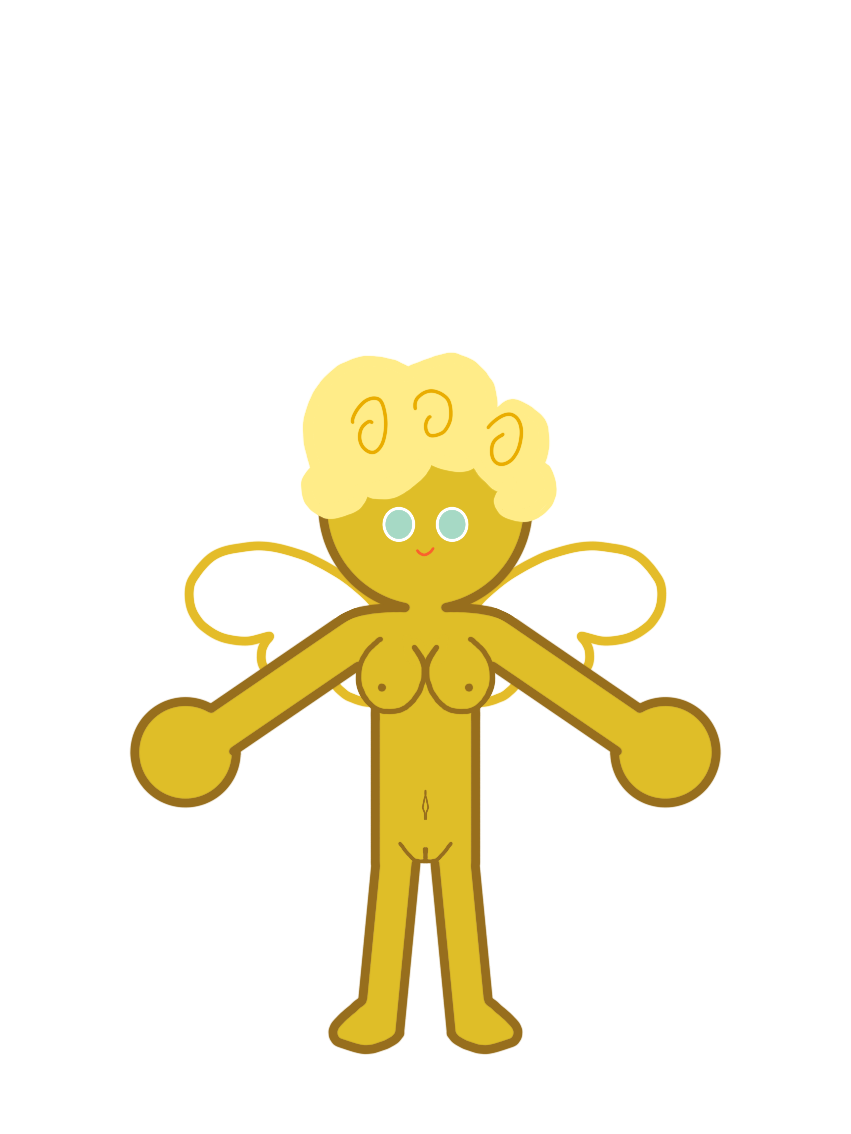
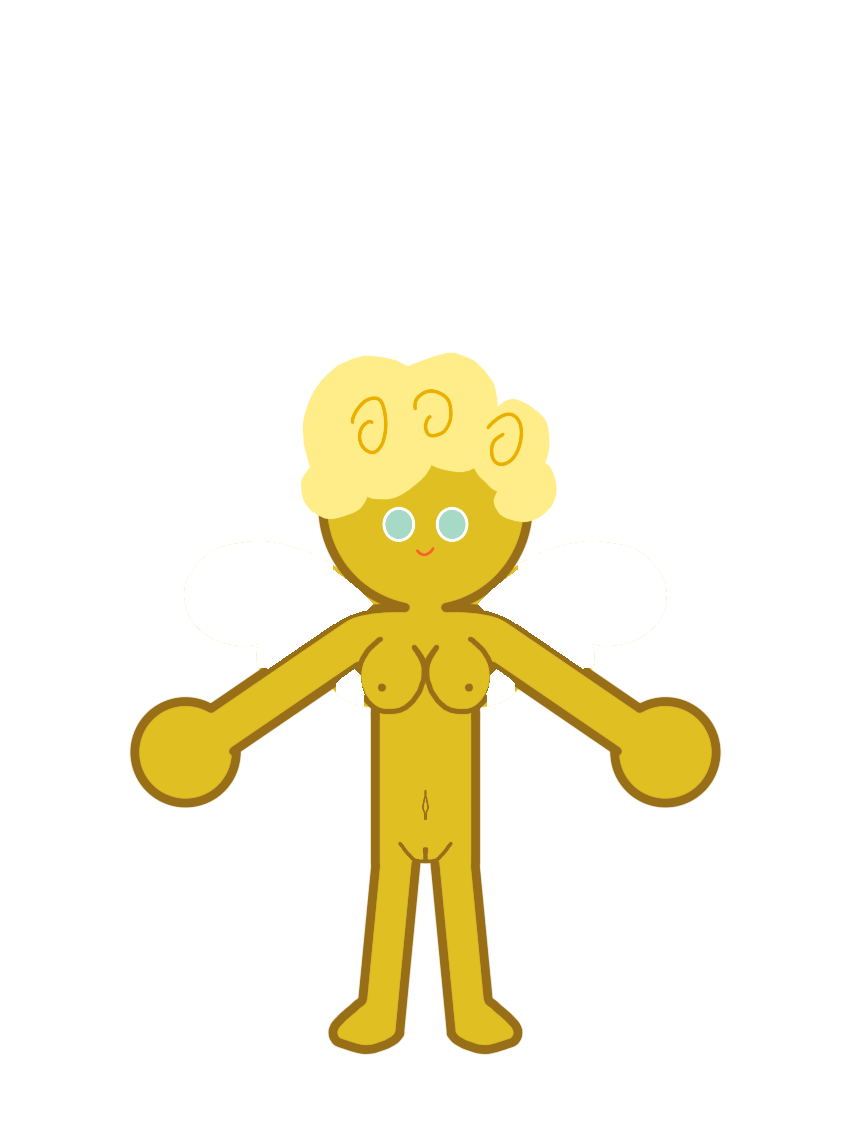
Separate the wings and tail out of the base sprites
Both pets had their back parts painted into the body sprite. The fairy's wings
were carved back out at load time by a 42-line hand-measured pixel mask; the
devil's wings and tail were not separated at all, so they were welded to his
torso and could not move.

They are real files now — wings.png, wings_2.png, tail_2.png — and the mask is
deleted from the config. The devil gains a tail he has never had: it was drawn
on the whole time, stuck to the body. Its anchor is set to where the tail
actually meets him rather than to the pelvis joint, so the chain covers the tail
instead of starting in empty space.

Splitting was done by colour and connected-component labelling, which separated
the left wing, the right wing and the tail cleanly. Two details worth recording:

- A gap is only bridged across blobs when the part really does continue behind
  the body. A cape does; a pair of wings does not, and filling between them
  paints the whole chest black.
- The devil's fringe is deliberately left in the body art. It sits ON the
  forehead, so lifting it out leaves a fringe-shaped hole that shows as soon as
  the part moves, and it hangs off the head bone either way — it already moves
  exactly as it should.

Checked by stacking the body and parts back up against the original sprites:
0 of 174,507 pixels differ for character 2 and 0 of 171,605 for character 1.
The untouched sprites are committed as base_original.png and base_2_original.png.
[…]

diff --git a/tools/parts_preview.html b/tools/parts_preview.html
@@ -1,0 +1,200 @@
+<!DOCTYPE html>
+<html lang="en">
+<head>
+<meta charset="utf-8" />
+<!-- This page lives in tools/ but everything it loads — the rig scripts and
+     images/ — sits one level up, and asset_path_fix.js rewrites bare image
+     names to "images/<name>" relative to the PAGE. Without this the whole page
+     would go looking for tools/images/. -->
+<base href="../" />
+<title>Part preview</title>
+<style>
+  * { box-sizing: border-box; }
+  body { margin: 0; font: 14px/1.5 system-ui, sans-serif; color: #1b2430; background: #eef1f5;
+         display: flex; min-height: 100vh; }
+  #stage { flex: 1; display: flex; align-items: center; justify-content: center; position: relative; }
+  #stage canvas { background:
+      repeating-conic-gradient(#e3e7ee 0% 25%, #f7f9fb 0% 50%) 50% / 24px 24px; border-radius: 8px; }
+  #side { width: 330px; padding: 18px; background: #fff; border-left: 1px solid #d8dee7;
+          overflow: auto; }
+  h1 { font-size: 17px; margin: 0 0 2px; }
+  h2 { font-size: 12px; text-transform: uppercase; letter-spacing: .08em; color: #6b7684;
+       margin: 22px 0 8px; }
+  .sub { color: #6b7684; font-size: 12.5px; margin-bottom: 4px; }
+  button { font: inherit; padding: 7px 12px; margin: 0 6px 6px 0; border: 1px solid #c8d0da;
+           background: #fff; border-radius: 7px; cursor: pointer; }
+  button:hover { background: #f1f4f8; }
+  button.on { background: #1b2430; color: #fff; border-color: #1b2430; }
+  label { display: flex; align-items: center; gap: 8px; padding: 5px 0; cursor: pointer; }
+  code { font: 12.5px ui-monospace, monospace; background: #f1f4f8; padding: 1px 5px;
+         border-radius: 4px; }
+  .missing { color: #a8b0bb; }
+  .tag { font-size: 11px; color: #6b7684; }
+  .warn { background: #fff6e5; border: 1px solid #f0d8a8; padding: 9px 11px; border-radius: 7px;
+          font-size: 12.5px; color: #6b4c12; }
+</style>
+</head>
+<body>
+<div id="stage"><canvas id="c" width="760" height="900"></canvas></div>
+
+<div id="side">
+  <h1>Part preview</h1>
+  <div class="sub">Redraw a part, save it into <code>images/</code>, then Reload art.
+    Nothing here changes your files.</div>
+
+  <h2>Motion</h2>
+  <div id="modes"></div>
+
+  <h2>Parts found</h2>
+  <div id="parts"></div>
+
+  <h2>Show</h2>
+  <label><input type="checkbox" id="bones"> Skeleton and joints</label>
+  <label><input type="checkbox" id="slow"> Quarter speed</label>
+
+  <h2>Scale</h2>
+  <input type="range" id="scale" min="20" max="90" value="52" style="width:100%">
+
+  <h2></h2>
+  <button id="reload">↻ Reload art</button>
+  <div id="note"></div>
+</div>
+
+<script src="asset_path_fix.js"></script>
+<script src="pet_back_layer.js"></script>
+<script src="pet_rig_config.js"></script>
+<script src="pet_rig.js"></script>
+<script>
+(() => {
+  const CFG = window.PET_RIG;
+  const cv = document.getElementById('c'), ctx = cv.getContext('2d');
+
+  // The declared parts, and whether their art actually loaded. Kept as the one
+  // source of truth so switching a part off and rebuilding uses the same list.
+  const declared = []
+    .concat((CFG.backParts || []).map(d => ({ def: d, front: false })))
+    .concat((CFG.frontParts || []).map(d => ({ def: d, front: true })));
+  declared.forEach(p => { p.on = true; });
+
+  const PET = Number(new URLSearchParams(location.search).get('pet') || 0);
+  let rig = null, base = null, mode = 'idle', t0 = performance.now(), showBones = false, slow = false;
+  let scale = 0.52;
+
+  function loadImage(src) {
+    return new Promise(r => { const i = new Image(); i.onload = () => r(i); i.onerror = () => r(null); i.src = src; });
+  }
+
+  // Rebuilding is a whole-sprite read, so it happens on a toggle — never per
+  // frame. Switching a part off means handing the rig a list without it.
+  function build() {
+    CFG.backParts  = declared.filter(p => !p.front && p.on).map(p => p.def);
+    CFG.frontParts = declared.filter(p =>  p.front && p.on).map(p => p.def);
+    if (window.PetRig.resetGeometry) window.PetRig.resetGeometry();
+    rig = window.PetRig.create({ petIndex: PET });
+    if (base) rig.setBase(base);
+    rig.setDebug(showBones);
+  }
+
+  async function boot() {
+    // Character 2 has its own body art and its own "_2" parts; fall back to
+    // character 1's body the same way the app does.
+    base = PET === 1 ? await loadImage('base_2.png') : null;
+    if (!base) base = await loadImage('base.png');
+    document.getElementById('note').innerHTML = base ? '' :
+      '<div class="warn">No <code>images/base.png</code> — nothing to rig. ' +
+      'Add the body sprite first.</div>';
+
+    // Start the part loads through the SAME resolver the rig uses, so the "_2"
+    // names are the ones requested for character 2. Asking for the bare name
+    // here would preload the wrong files and then report every part missing.
+    if (window.PetParts) declared.forEach(p => window.PetParts.resolve(p.def.img, null, PET));
+    await new Promise(r => setTimeout(r, 500));
+
+    renderPartList();
+    build();
+    requestAnimationFrame(frame);
+  }
+
+  function renderPartList() {
+    const host = document.getElementById('parts');
+    host.innerHTML = '';
+    declared.forEach((p, i) => {
+      const found = window.PetParts && window.PetParts.has(p.def.img, null, PET);
+      const row = document.createElement('label');
+      row.innerHTML =
+        `<input type="checkbox" ${p.on ? 'checked' : ''} ${found ? '' : 'disabled'}>` +
+        `<span class="${found ? '' : 'missing'}"><code>${p.def.img}</code>` +
+        `<div class="tag">${found ? '' : 'not found · '}${p.front ? 'front' : 'behind'} · ` +
+        `${p.def.bone}${p.def.segments ? ' · chain x' + p.def.segments : ''}</div></span>`;
+      row.querySelector('input').addEventListener('change', e => { p.on = e.target.checked; build(); });
+      host.appendChild(row);
+    });
+  }
+
+  const MODES = [
+    ['idle',  'Rest'],
+    ['sway',  'Walk about'],
+    ['throw', 'Throw'],
+    ['pull',  'Pull a hand'],
+  ];
+  const modeHost = document.getElementById('modes');
+  MODES.forEach(([id, label]) => {
+    const b = document.createElement('button');
+    b.textContent = label; b.dataset.mode = id;
+    b.className = id === mode ? 'on' : '';
+    b.onclick = () => {
+      mode = id; t0 = performance.now();
+      [...modeHost.children].forEach(c => c.className = c.dataset.mode === id ? 'on' : '');
+    };
+    modeHost.appendChild(b);
+  });
+
+  document.getElementById('bones').onchange = e => { showBones = e.target.checked; if (rig) rig.setDebug(showBones); };
+  document.getElementById('slow').onchange  = e => { slow = e.target.checked; };
+  document.getElementById('scale').oninput  = e => { scale = e.target.value / 100; };
+  document.getElementById('reload').onclick = () => location.reload();
+
+  let last = 0;
+  function frame(now) {
+    requestAnimationFrame(frame);
+    let dt = last ? Math.min((now - last) / 1000, 0.05) : 1 / 60;
+    last = now;
+    if (slow) dt *= 0.25;
+    ctx.clearRect(0, 0, cv.width, cv.height);
+    if (!rig || !rig.ready) return;
+
+    const t = (now - t0) / 1000 * (slow ? 0.25 : 1);
+    const h = CFG.src.h * scale;
+    const cx = cv.width / 2 - CFG.src.w * scale / 2;
+    const floor = 40 + h;
+
+    const S = {
+      petX: cx, petY: 40, originX: 0, originY: 0, scale,
+      floorY: floor, poseK: rig.pose.idle, pin: null, airborne: false,
+    };
+
+    if (mode === 'sway') {
+      S.petX = cx + Math.sin(t * 1.6) * 130;
+    } else if (mode === 'throw') {
+      const p = (t % 2.4) / 2.4;
+      S.petX = cx + Math.sin(t * 2.2) * 150;
+      S.petY = 40 - Math.sin(p * Math.PI) * h * 0.55;
+      S.airborne = p < 0.92;
+      S.poseK = S.airborne ? rig.pose.airborne : rig.pose.idle;
+      if (!S.airborne) S.floorY = floor;
+    } else if (mode === 'pull') {
+      S.poseK = rig.pose.heldLimb;
+      S.pin = { joint: 'handL',
+                x: cx + (CFG.src.w * 0.5 + Math.cos(t * 1.1) * CFG.src.w * 0.42) * scale,
+                y: 40 + (CFG.src.h * 0.55 + Math.sin(t * 1.1) * CFG.src.h * 0.3) * scale };
+    }
+
+    rig.step(dt, S);
+    rig.draw(ctx, S);
+  }
+
+  boot();
+})();
+</script>
+</body>
+</html>

diff --git a/pet_rig_config.js b/pet_rig_config.js
@@ -216,15 +216,19 @@ window.PET_RIG = {
   //                 much cheaper. 'maxLag' caps the trail in degrees.
   //                 'flap: true' adds a slow flutter while the pet is airborne.
   //
-  // 'mask' is the legacy path, kept for the wings that are drawn INTO the base
-  // art that ships with this app: row runs [y, x0, x1] measured off base.png.
-  // Body bones subtract those pixels and the part keeps only them, which is
-  // what stops an arm flying off with a lump of wing stuck to it. Supplying
-  // 'img' is better in every way — the wing comes out whole where an arm
-  // currently overlaps it — and an img next to a mask wins.
+  // These parts used to be painted into base.png and carved back out with a
+  // hand-measured pixel mask. They are real files now: images/wings.png and, for
+  // character 2, images/wings_2.png and images/tail_2.png. base_original.png
+  // next to them is the untouched sprite they came out of, kept for reference.
+  //
+  // The mask path still exists in pet_rig.js and still works — add a 'mask' of
+  // row runs [y, x0, x1] instead of an 'img' and the part is carved out of the
+  // base art as before. Nothing here uses it any more, and an 'img' wins over a
+  // mask if both are given. Prefer the file: a carved part can never recover
+  // what the body was covering, and a drawn one comes out whole.
   backParts: [
 
-    { id: 'tail', img: 'tail.png', bone: 'pelvis', anchor: { x: 425, y: 862 },
+    { id: 'tail', img: 'tail.png', bone: 'pelvis', anchor: { x: 370, y: 867 },
       z: 45, segments: 3, stiffness: 0.30 },
 
     { id: 'ponytail', img: 'ponytail.png', bone: 'head', anchor: { x: 425, y: 430 },
@@ -234,52 +238,8 @@ window.PET_RIG = {
       z: 55, lag: 0.14, maxLag: 10 },
 
     { id: 'wings', img: 'wings.png', bone: 'torso', anchor: { x: 425, y: 648 },
-      z: 40, lag: 0.22, maxLag: 16, flap: true,
-      rect: [184, 541, 483, 166],
-      mask: [
-        541,247,270, 541,580,603, 542,240,276, 542,574,610, 543,233,281, 543,569,617, 544,228,285, 544,565,622,
-        545,224,288, 545,562,626, 546,221,292, 546,558,629, 547,218,295, 547,555,632, 548,216,298, 548,552,634,
-        549,214,301, 549,549,636, 550,212,304, 550,546,638, 551,210,307, 551,543,639, 552,209,309, 552,541,641,
-        553,208,312, 553,538,642, 554,206,314, 554,536,644, 555,205,316, 555,534,645, 556,204,318, 556,532,646,
-        557,203,320, 557,530,647, 558,202,322, 558,528,648, 559,201,324, 559,526,649, 560,200,326, 560,524,650,
-        561,199,327, 561,523,651, 562,198,329, 562,521,652, 563,197,331, 563,519,653, 564,197,332, 564,518,653,
-        565,196,332, 565,518,654, 566,195,332, 566,518,655, 567,194,332, 567,518,656, 568,193,332, 568,518,657,
-        569,193,332, 569,518,657, 570,192,334, 570,516,658, 571,191,335, 571,515,659, 572,191,336, 572,514,659,
-        573,190,337, 573,513,660, 574,189,339, 574,511,661, 575,189,340, 575,510,661, 576,188,342, 576,508,662,
-        577,187,343, 577,507,662, 578,187,344, 578,506,663, 579,187,346, 579,504,663, 580,186,347, 580,503,664,
-        581,186,348, 581,502,664, 582,185,349, 582,501,665, 583,185,351, 583,499,665, 584,185,352, 584,498,665,
-        585,185,353, 585,497,665, 586,184,354, 586,496,665, 587,184,355, 587,495,666, 588,184,357, 588,493,666,
-        589,184,358, 589,492,666, 590,184,359, 590,491,666, 591,184,360, 591,490,666, 592,184,361, 592,489,666,
-        593,184,362, 593,488,666, 594,184,363, 594,487,666, 595,184,364, 595,486,666, 596,184,365, 596,485,666,
-        597,184,366, 597,484,666, 598,184,367, 598,483,666, 599,184,368, 599,482,666, 600,184,369, 600,481,666,
-        601,184,370, 601,480,666, 602,185,371, 602,479,665, 603,185,372, 603,478,665, 604,185,372, 604,478,665,
-        605,185,371, 605,479,665, 606,185,370, 606,480,665, 607,186,369, 607,481,664, 608,186,368, 608,482,664,
-        609,186,367, 609,483,664, 610,186,366, 610,484,664, 611,187,361, 611,489,663, 612,187,358, 612,492,663,
-        613,188,355, 613,495,662, 614,188,352, 614,498,662, 615,189,349, 615,500,661, 616,189,347, 616,503,661,
-        617,190,345, 617,505,660, 618,190,343, 618,507,660, 619,191,341, 619,509,659, 620,191,339, 620,511,658,
-        621,192,338, 621,512,658, 622,193,336, 622,514,657, 623,194,335, 623,515,656, 624,194,332, 624,518,656,
-        625,195,331, 625,519,655, 626,196,329, 626,521,654, 627,197,328, 627,522,653, 628,198,326, 628,524,652,
-        629,199,325, 629,525,651, 630,200,323, 630,527,650, 631,201,322, 631,528,649, 632,203,320, 632,529,647,
-        633,204,319, 633,531,646, 634,205,318, 634,532,645, 635,207,316, 635,534,643, 636,208,315, 636,535,642,
-        637,210,313, 637,537,640, 638,211,312, 638,538,638, 639,213,310, 639,540,637, 640,215,309, 640,541,635,
-        641,218,307, 641,543,632, 642,220,306, 642,544,629, 643,224,304, 643,546,626, 644,228,303, 644,547,622,
-        645,234,253, 645,258,301, 645,549,592, 645,597,617, 646,257,300, 646,550,593, 647,257,298, 647,551,593,
-        648,257,297, 648,553,593, 649,257,296, 649,554,593, 650,256,294, 650,556,593, 651,256,293, 651,557,594,
-        652,256,291, 652,559,594, 653,256,290, 653,560,594, 654,256,288, 654,562,594, 655,256,287, 655,563,594,
-        656,256,285, 656,565,594, 657,256,284, 657,566,594, 658,256,282, 658,568,594, 659,256,281, 659,569,594,
-        660,256,280, 660,570,594, 661,256,278, 661,572,594, 662,256,277, 662,573,593, 663,257,275, 663,575,593,
-        664,257,274, 664,576,593, 665,257,272, 665,578,593, 666,258,271, 666,579,592, 667,258,269, 667,581,592,
-        668,267,268, 668,582,583, 669,354,354, 669,496,496, 670,352,355, 670,495,498, 671,351,356, 671,494,499,
-        672,349,357, 672,493,501, 673,348,358, 673,492,502, 674,347,359, 674,491,503, 675,345,360, 675,490,505,
-        676,344,360, 676,490,506, 677,342,360, 677,490,508, 678,341,360, 678,490,509, 679,340,360, 679,490,510,
-        680,339,360, 680,490,511, 681,338,360, 681,490,512, 682,337,360, 682,490,513, 683,336,361, 683,489,514,
-        684,336,361, 684,489,514, 685,336,361, 685,489,514, 686,336,361, 686,489,514, 687,336,361, 687,489,514,
-        688,336,362, 688,488,514, 689,336,362, 689,488,514, 690,336,362, 690,488,514, 691,336,363, 691,487,514,
-        692,336,363, 692,487,514, 693,336,363, 693,486,514, 694,337,364, 694,486,513, 695,338,363, 695,487,512,
-        696,339,363, 696,487,511, 697,340,363, 697,487,509, 698,342,363, 698,487,508, 699,343,363, 699,487,507,
-        700,345,363, 700,487,505, 701,347,363, 701,487,503, 702,349,363, 702,487,501, 703,352,363, 703,487,498,
-        704,354,363, 704,487,496, 705,357,363, 705,487,493, 706,361,363, 706,487,489,
-      ] },
+      z: 40, lag: 0.22, maxLag: 16, flap: true },
+
   ],
 
   // ---- Front parts ---------------------------------------------------------

diff --git a/pet_rig.js b/pet_rig.js
@@ -1198,7 +1198,15 @@ window.PetRig = (function () {
   //  window.PetRig is itself the first pet, so an app with one pet never has to
   //  know create() exists — every call it already makes still lands.
   const first = create({ petIndex: 0 });
-  const api = { create, geometry, config: CFG };
+  const api = {
+    create, geometry, config: CFG,
+    // Throw away the derived skeleton so the next create() reads PET_RIG again.
+    // The geometry is cached because it is identical for every pet and costs a
+    // pass over the config to build; that caching is also why editing
+    // PET_RIG.backParts at runtime otherwise appears to do nothing. The parts
+    // preview in tools/ uses this to switch a part off and re-cut.
+    resetGeometry() { for (const k in geomCache) delete geomCache[k]; },
+  };
   for (const k of Object.keys(first)) {
     const d = Object.getOwnPropertyDescriptor(first, k);
     if (d && (d.get || d.set)) Object.defineProperty(api, k, d);

diff --git a/tools/README.md b/tools/README.md
@@ -1,0 +1,69 @@
+# Drawing the pet's back parts
+
+The pet's body is cut into limbs automatically along the skeleton in
+`pet_rig_config.js`, so **you never separate an arm, a leg, the head or the
+torso** — those live in `images/base.png` and the rig handles them.
+
+What does need its own file is anything that sits **behind** the body and spans
+more than one bone: a cape, long hair, wings, a tail. The rig gives every pixel
+to the bone nearest it, so a cape draped across both legs gets shared out
+between them and tears apart the moment the pet is thrown.
+
+> **The test:** if the pet moved its arm, would this move *with* the arm?
+> A sleeve would — it belongs in `base.png`. A cape would not — it needs its own file.
+
+## The files
+
+Every part is optional. A missing PNG simply draws nothing, so you can add them
+one at a time. Draw each on its own transparent canvas the **same size as
+`base.png`** (851 × 1134), positioned exactly where it sits on the body — the
+same way a piece of clothing lines up.
+
+| file | hangs off | how it moves |
+|---|---|---|
+| `images/wings.png` | torso | one piece, trails the body, flaps in the air |
+| `images/cape.png` | torso | one piece, trails the body |
+| `images/tail.png` | pelvis | chain — whips and settles |
+| `images/ponytail.png` | head | chain — whips and settles |
+| `images/hair_back.png` | head | one piece, trails the head |
+| `images/hair_front.png` | head | drawn **over** the body and its clothes |
+
+`parts_guide_*.png` in this folder is a tracing template: the character with the
+skeleton, the joints and each part's pivot drawn on top. Open it as a background
+layer in your drawing app and draw against it.
+
+Character 2 uses the same names with `_2` on the end — `tail_2.png`,
+`wings_2.png`. If a `_2` file is missing, character 1's art is used and tinted.
+
+Which parts exist, and what each is bound to, is set in `pet_rig_config.js`
+under `backParts` / `frontParts`. Add an entry there to introduce a new one.
+
+## Checking your work
+
+Open `tools/parts_preview.html` in a browser. It loads `images/`, lists which
+part files it found, and shows the pet rigged and moving — at rest, walking
+about, thrown, or dragged by a hand. Toggle any part off to see it without,
+turn on the skeleton to check a pivot, then redraw, save, and hit **Reload art**.
+
+It changes nothing on disk. Add `?pet=1` to the URL to preview character 2.
+
+## What is hidden behind the body
+
+A part drawn into `base.png` is missing whatever the body was covering — cut a
+cape out and you get a body-shaped bite in the middle of it. The parts that ship
+here were rebuilt automatically by filling that gap with the part's flat colour,
+which works because this art is flat-shaded. If you redraw a part by hand,
+**draw the whole thing**, including the section the body hides. It costs nothing
+when the pet stands still and it is what stops a hole appearing the moment the
+part swings.
+
+`images/base_original.png` is the untouched sprite the parts were taken out of,
+kept for reference. Nothing loads it.
+
+## If you redraw the body in a different pose
+
+The joints in `pet_rig_config.js` have to sit where the joints are in your
+artwork — that is the whole contract, and nothing else needs re-measuring. The
+config ships two poses, `natural` and `tpose`; pick one with `restPose`, or copy
+a block and move the numbers onto your art. Press **Ctrl+Shift+B** in the app, or
+tick *Skeleton and joints* in the preview, to see exactly where they land.
